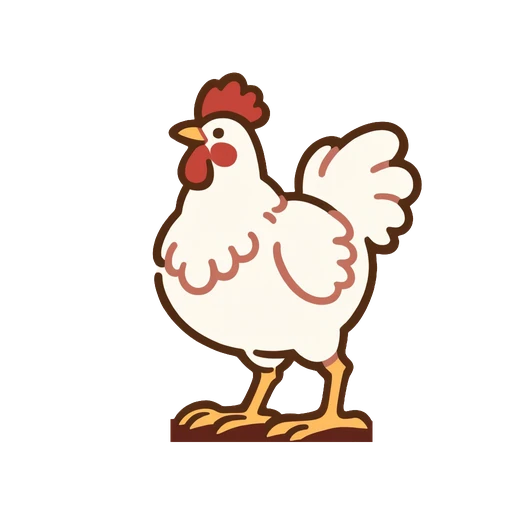
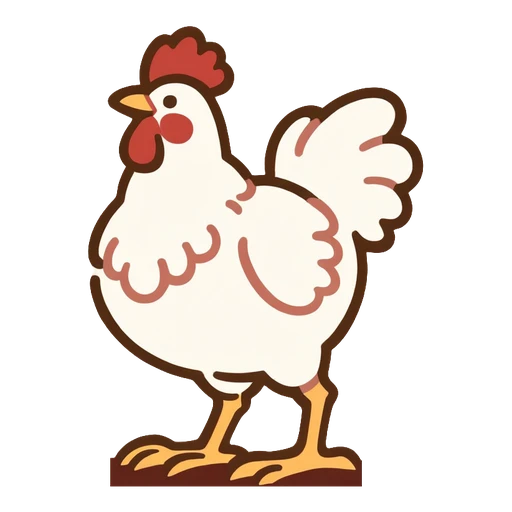
fix: 素材をコピーし直す（絵の大きさをそろえた版・メモのコマンドに --no-cry）

Changed region(s): [[0.1562, 0.0312, 0.8438, 0.9688]]

diff --git a/chiiku-assets.md b/chiiku-assets.md
@@ -1,10 +1,10 @@
 # chiiku の共通素材のコピー
 
-`public/chiiku/` は、ankardo の `shared-assets/chiiku/` を `scripts/copy-assets.sh chiiku .` でコピーしたもの。
+`public/chiiku/` は、ankardo の `shared-assets/chiiku/` を `scripts/copy-assets.sh chiiku . --no-cry` でコピーしたもの。
 手で直さない。直すときは ankardo の素材を直し、コピーし直す（コピーのたびに `public/chiiku/` は丸ごと置き換わる）。
 
 - コピー元: ankardo の `shared-assets/chiiku/`
-- commit: a893ef99ab4918bbe4075b38fa4b1ea4abeb0ef3
+- commit: 08a138b0bdd6ff99a513040154edec663a40c8a5
 - コピーした日: 2026-11-25
 - 鳴き声（`cry/`）: 入れていない（--no-cry）
 
